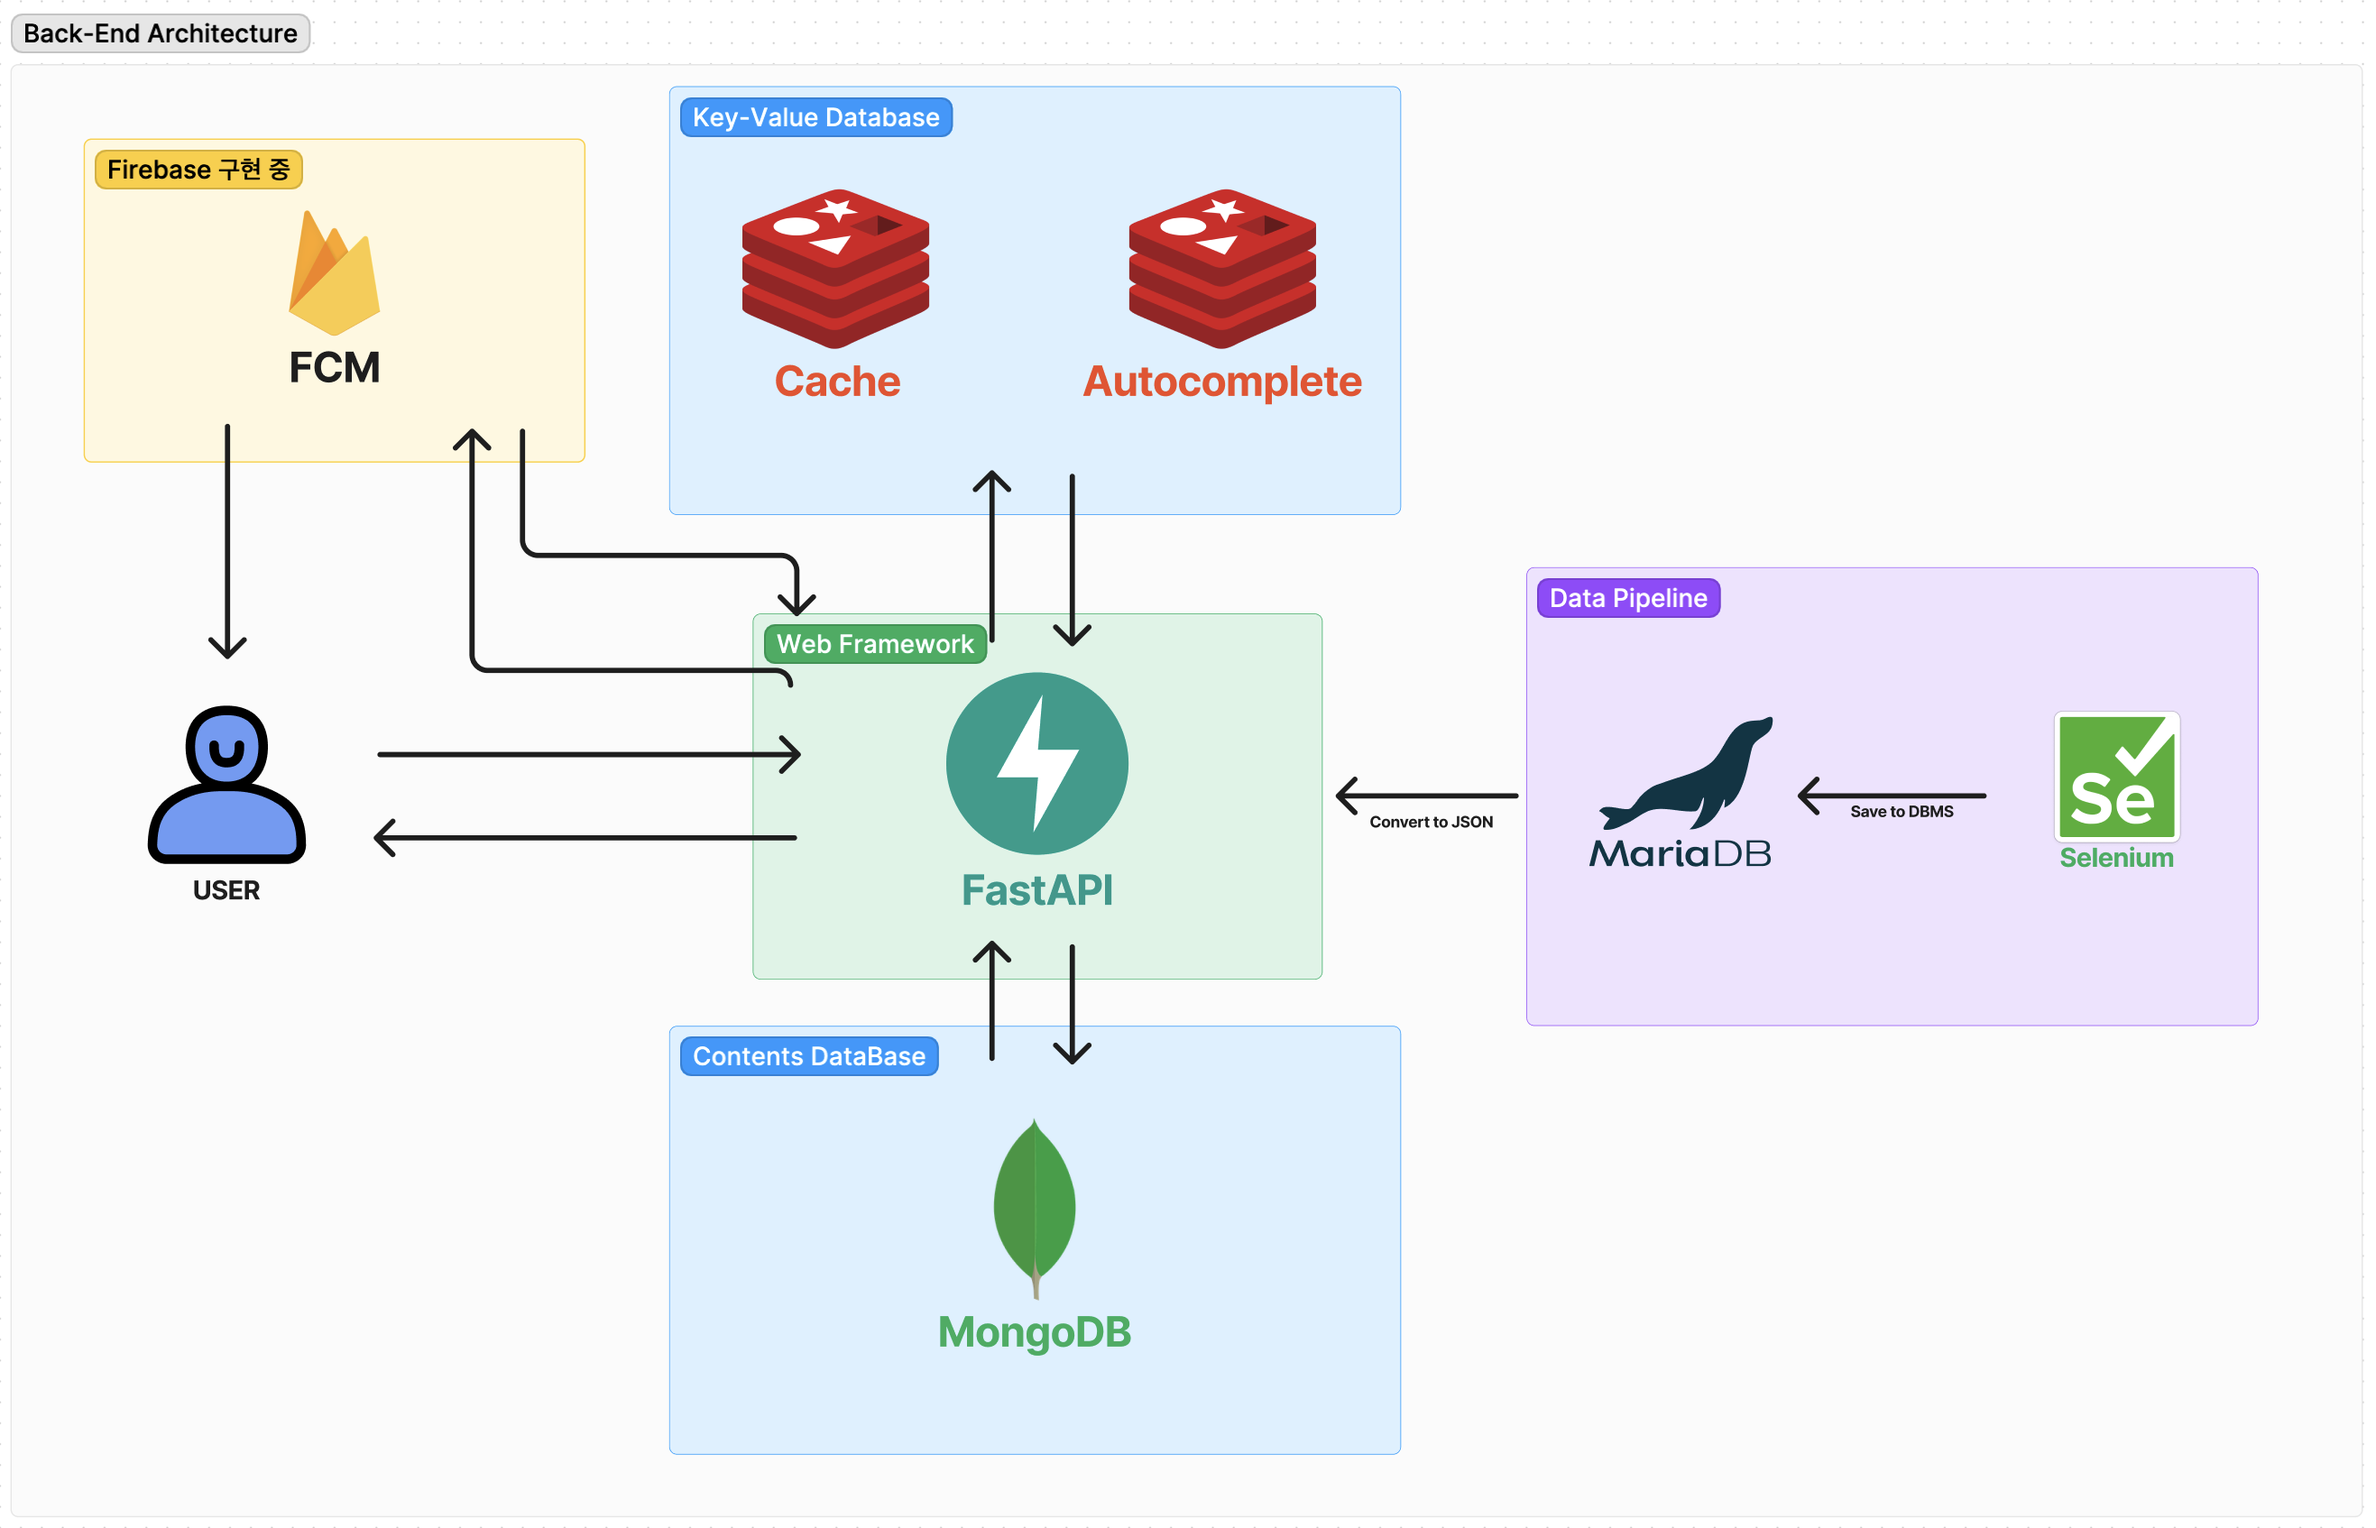
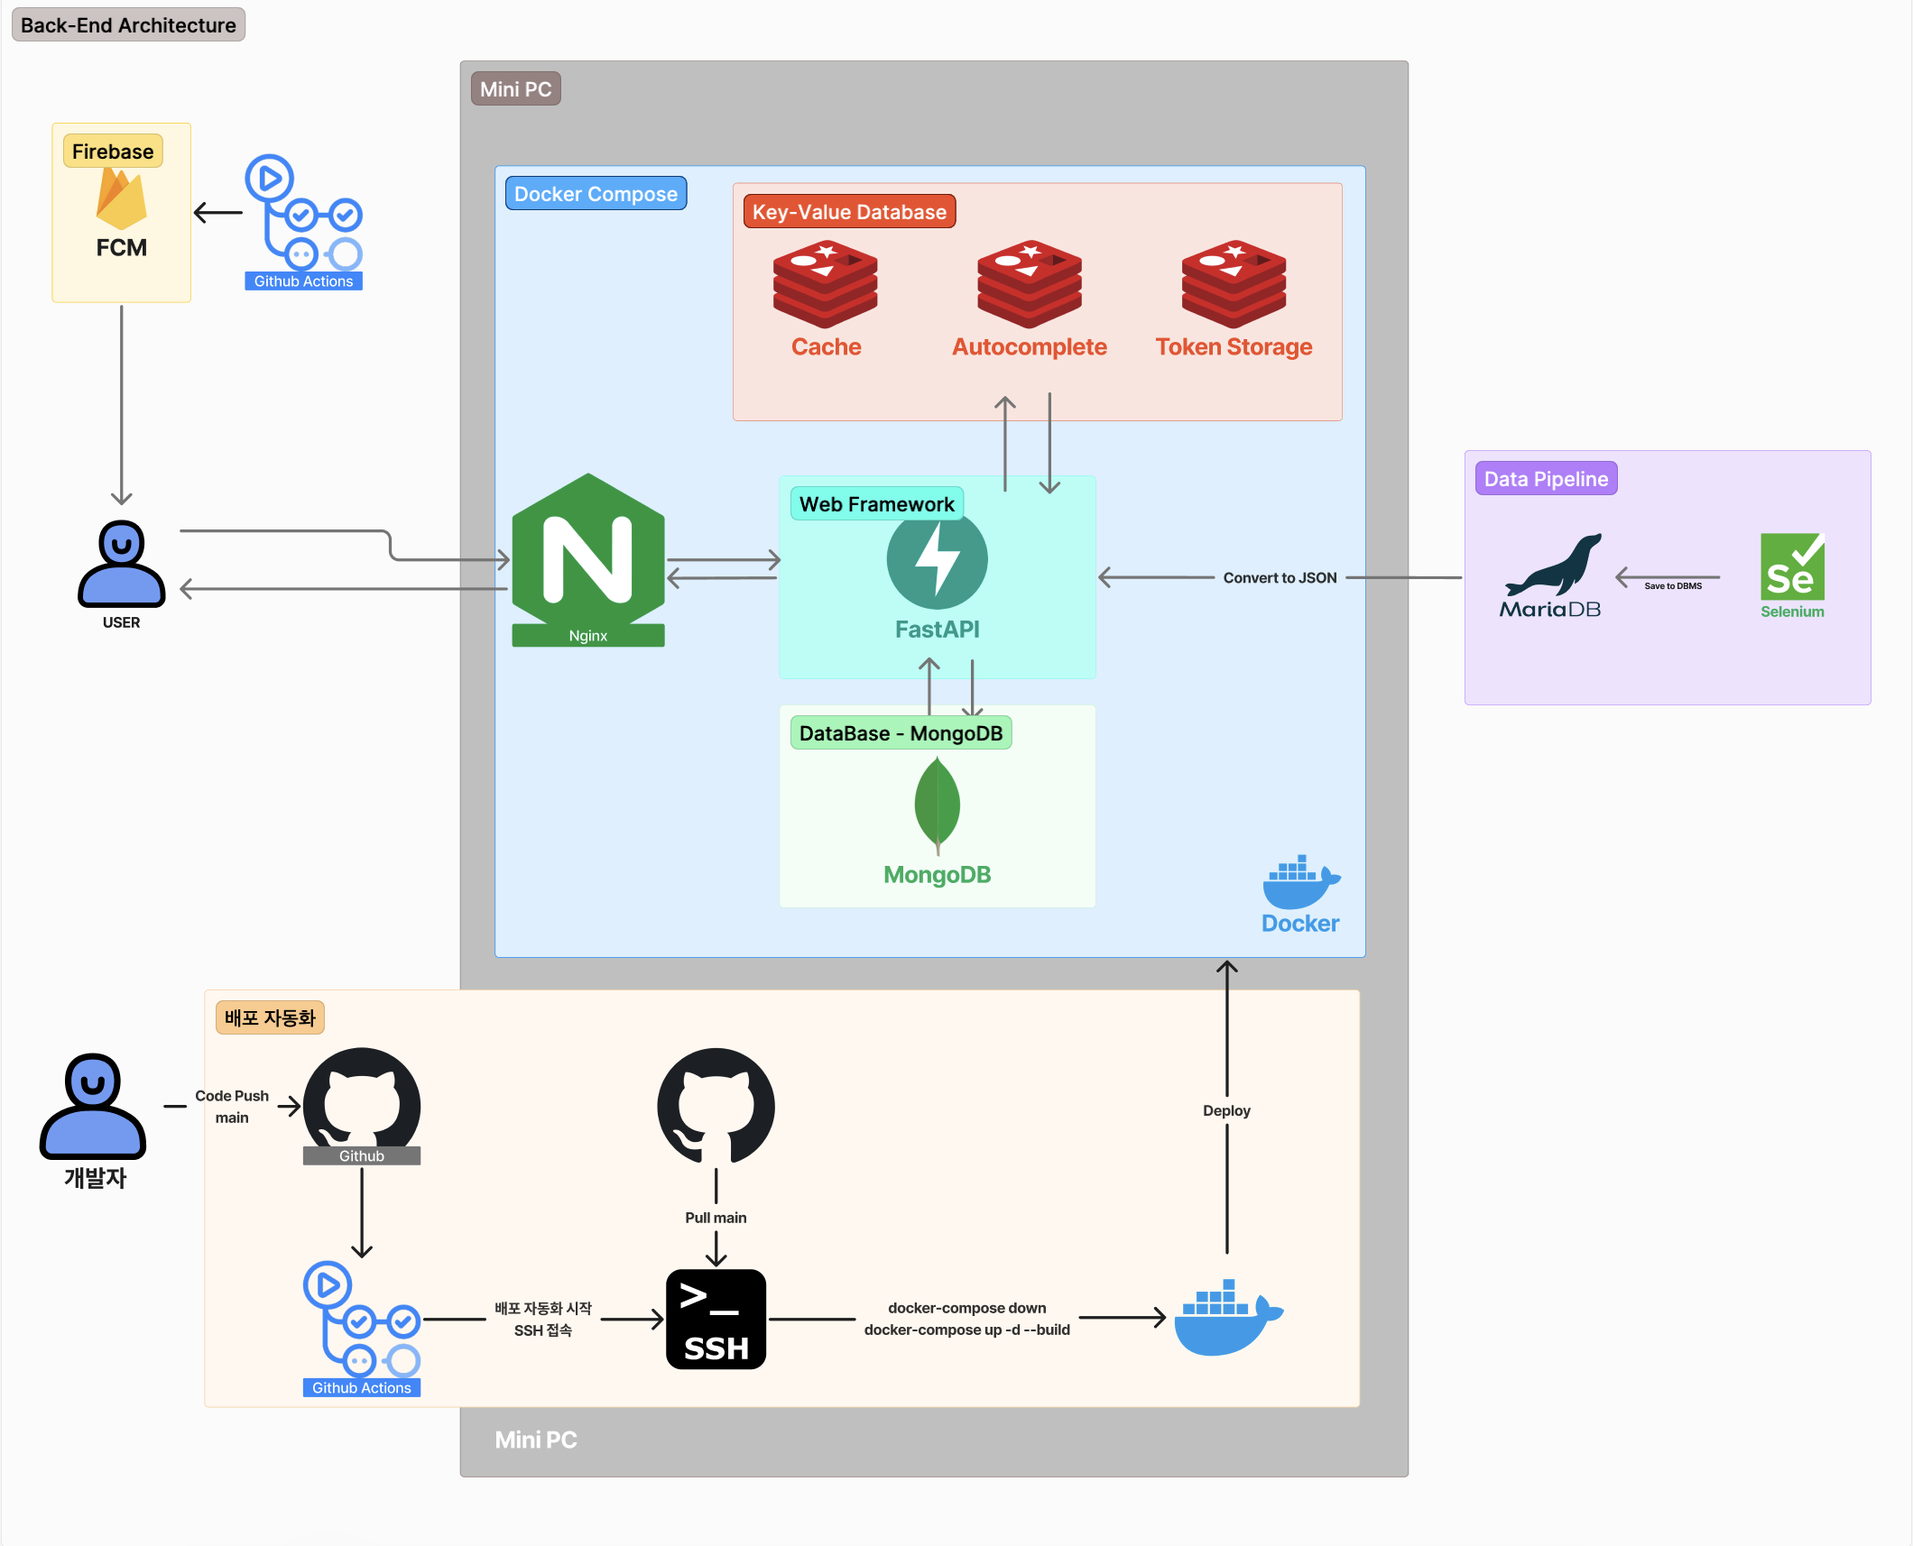
edit: readme.md

diff --git a/README.md b/README.md
@@ -5,15 +5,21 @@
 
 [Redis를 이용해 겜린더 검색 자동완성 성능을 개선해 보기](https://velog.io/@grit_munhyeok/겜린더-검색-자동완성-성능을-개선해-보기)
 
-## 실제 겜린더에 사용할 용도로 제작 중입니다.
+### 실제 겜린더에 사용할 용도로 제작 중입니다.
+
+
 
 ## 최근 작업
 리팩토링 game, search route에 있는 비즈니스 로직을 Service 로직으로 옮기기 ✅
 
 테스트 코드 작성하기 (작성 중)
 
------
+## Server H/W
+- Mini PC (Intel N100)
+- ARM Arch는 ARMv8.2A 이상부터 지원하고 적절한 CPU 아키텍쳐가 없는 단일 보드 하드웨어를 지원하지 않는다. (라즈베리파이 지원 안함 😭) 자세한 부분은 [MongoDB 프로덕션 정보 참고](https://www.mongodb.com/ko-kr/docs/manual/administration/production-notes/)
+  
 
+## Specs
 ### Language
 Python
 
@@ -28,14 +34,20 @@ Redis
 - redis-py
 
 
-### Implementation
-Game CRUD
+## Implementation
+### Game
 - Game Data Caching
 - platform, tag filtering
 
-Search
+### Search
 - Autocomplete (검색어 자동완성)
 - MongoDB Full Text Search & Redis Search Result Caching
+
+### User
+- JWT 기반 로그인 구현
+- 회원가입 Email 인증 기능 구현
+- device_id에 따른 refresh_token 생성 로직
+
 
 
 Redis Caching
@@ -43,22 +55,21 @@ Redis Caching
 - GameInfo
 - Search Result
 
-### Caching Strategies
+## Caching Strategies
 Look-Aside
 ![](/Readme%20Image/Caching%20Strategies.png)
 
-### Architecture
+## Architecture
 ![](/Readme%20Image/Back-End%20Architecture.png)
 
-### AutoComplete Sequence Diagram
+## Device ID-based refresh token generation
+![](/Readme%20Image/generate%20refresh_token%20process.png)
+
+## AutoComplete Sequence Diagram
 ![](/Readme%20Image/Autocomplete_Diagram.png)
 
 
 
 
 
-------
 
-## Server H/W
-- Mini PC (Intel N100)
-- ARM Arch는 ARMv8.2A 이상부터 지원하고 적절한 CPU 아키텍쳐가 없는 단일 보드 하드웨어를 지원하지 않는다. (라즈베리파이 지원 안함 😭) 자세한 부분은 [MongoDB 프로덕션 정보 참고](https://www.mongodb.com/ko-kr/docs/manual/administration/production-notes/)
